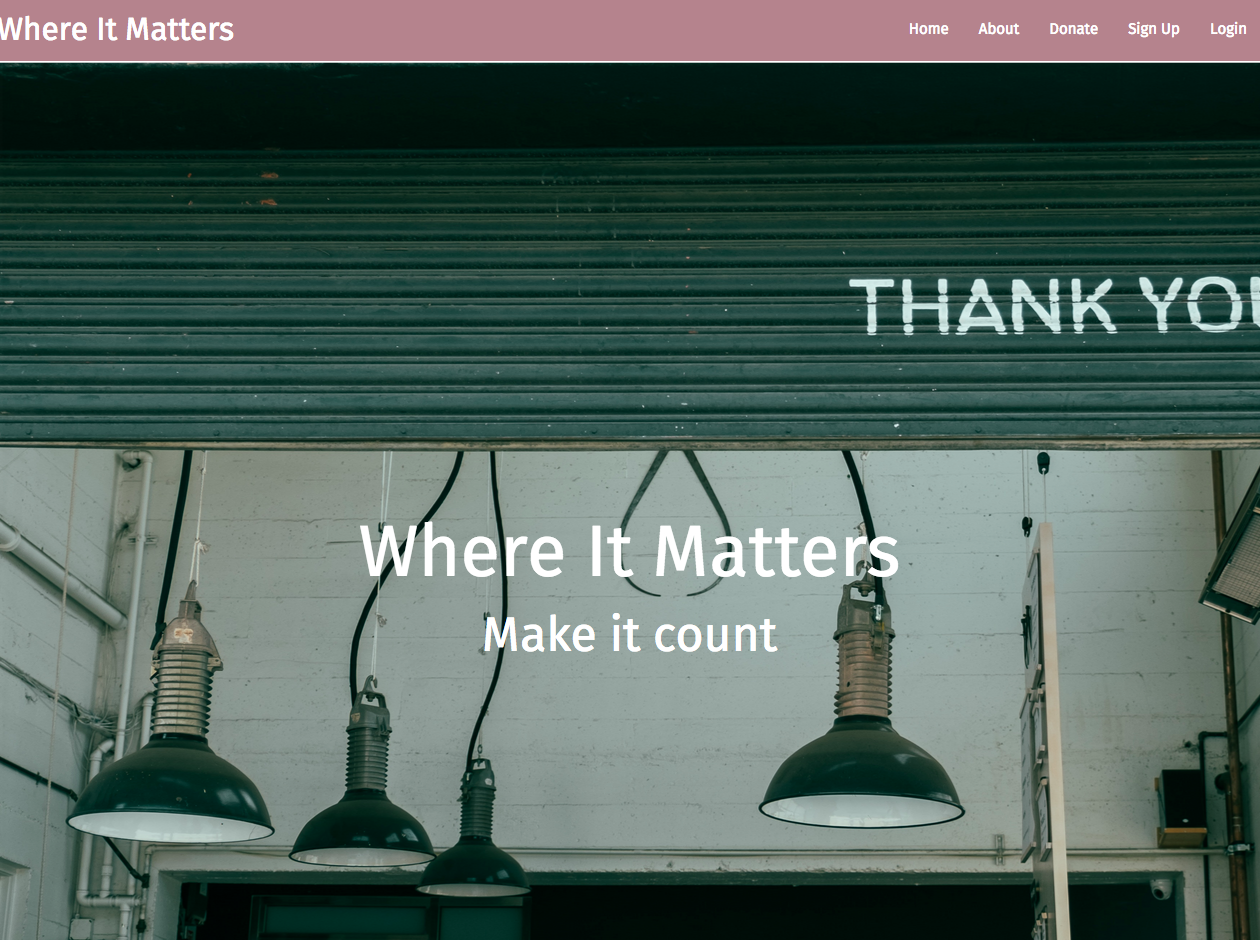
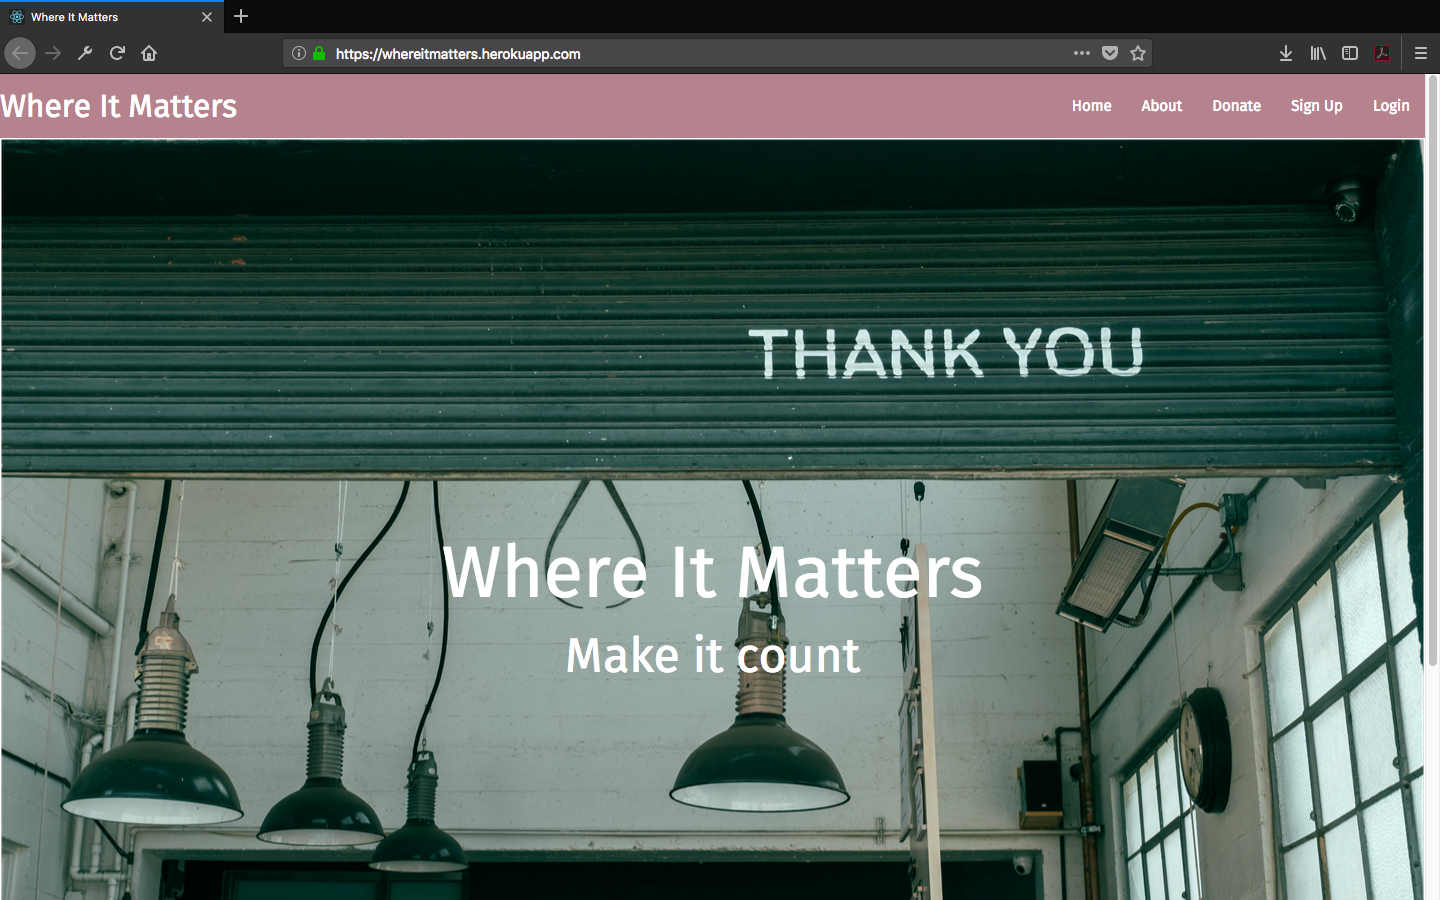
Corrected project3 links and pic. Updated the project3 description.

diff --git a/index.html b/index.html
@@ -100,12 +100,12 @@
             </div>
             <div class="card-content white-text">
               <p> A ReactJS client side, front-end, JavaScript engineered & designed with Materialize and CSS connecting to a
-                custom developed back-end api. </p>
+                custom developed back-end api. </p><br></br>
             </div>
             <div class="card-action center">
               <a href="https://familycookbookmanager.herokuapp.com/" style="color: #fff">Deployed App</a>
-              <a href="https://github.com/Kathy145/familyCookbookManager/tree/mernlab" style="color: #fff">Source Code</a>
-              <a href="https://recipemanagerapi.herokuapp.com/">Deployed API</a>
+              <a href="https://github.com/Kathy145/familyCookbookManager/tree/mernlab" style="color: #fff">Source Code</a> 
+              <br/><a href="https://recipemanagerapi.herokuapp.com/">Deployed API</a>
               <a href="https://github.com/Kathy145/familyCookbookManager/tree/mernlab">API Source Code</a>
             </div>
           </div>
@@ -113,17 +113,15 @@
         <div class="col s4">
           <div class="card medium cyan darken-1 white-text">
             <div class="card-image">
-              <img src="https://github.com/Kathy145/mernlab/blob/master/public/Family%20Cookbook%202018-03-16%2017-37-03.png?raw=true">
-              <span class="card-title">Where it Matters</span>
+              <img src="https://raw.githubusercontent.com/Kathy145/Kathy145.github.io/master/images/Where%20It%20Matters%202018-06-11%2012-24-03.png">
+              <span class="card-title project3" style="color: #fff">Where it Matters</span>
             </div>
             <div class="card-content white-text">
-              <p> A ReactJS constructed front-end application connected with the OrgHunter Charity API designed with Materialize and CSS.</p>
+              <p> Bison Hacks 2018 2nd Place Winner! A ReactJS constructed front-end application connected with the OrgHunter Charity API designed with Materialize and CSS.</p>
             </div>
             <div class="card-action center">
-              <a href="https://familycookbookmanager.herokuapp.com/" style="color: #fff">Deployed App</a>
-              <a href="https://github.com/Kathy145/familyCookbookManager/tree/mernlab" style="color: #fff">Source Code</a>
-              <a href="https://recipemanagerapi.herokuapp.com/">Deployed API</a>
-              <a href="https://github.com/Kathy145/familyCookbookManager/tree/mernlab">API Source Code</a>
+              <a href="https://whereitmatters.herokuapp.com/" style="color: #fff">Deployed App</a>
+              <a href="https://github.com/keaglin/bisonhacks-front" style="color: #fff">Source Code</a>
             </div>
           </div>
         </div>

diff --git a/portfolio.css b/portfolio.css
@@ -25,6 +25,13 @@ body {
   padding: 40px;
 }
 
+
+.card-title .project3 {
+  color: white !important;
+  
+}
+
+
 .brand {
   font-size: 28px;
 }
